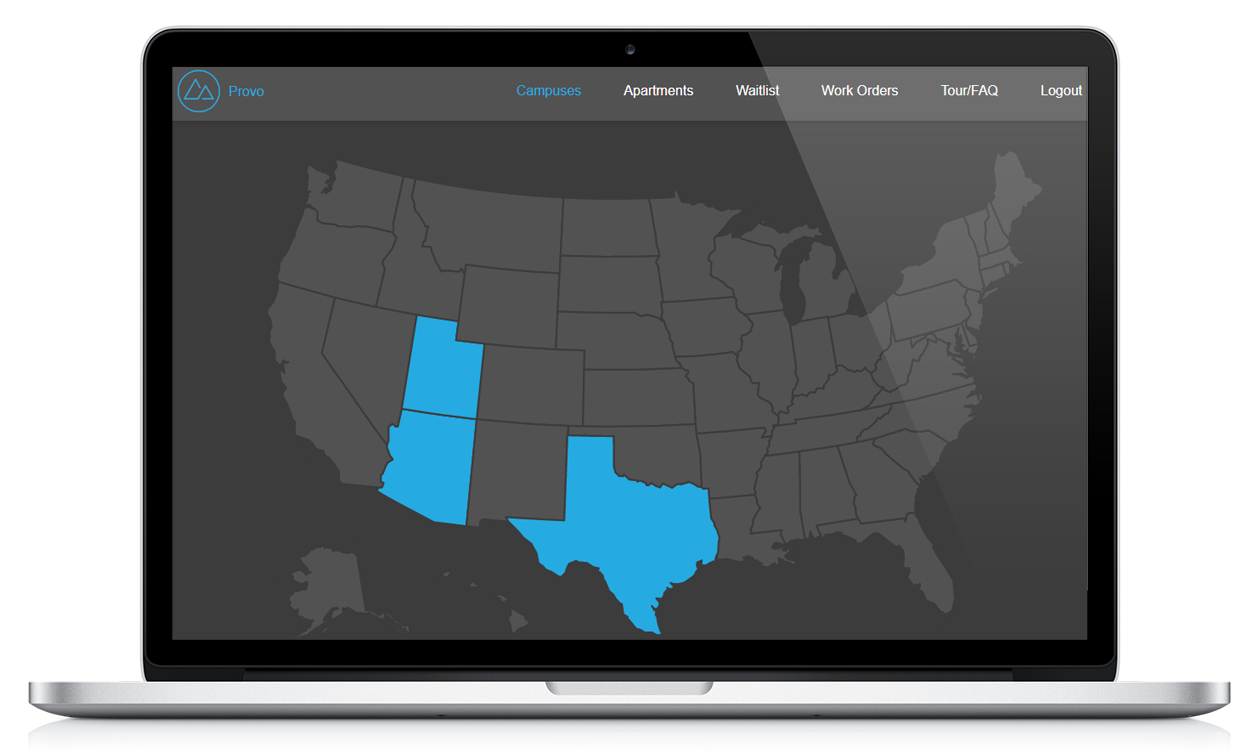
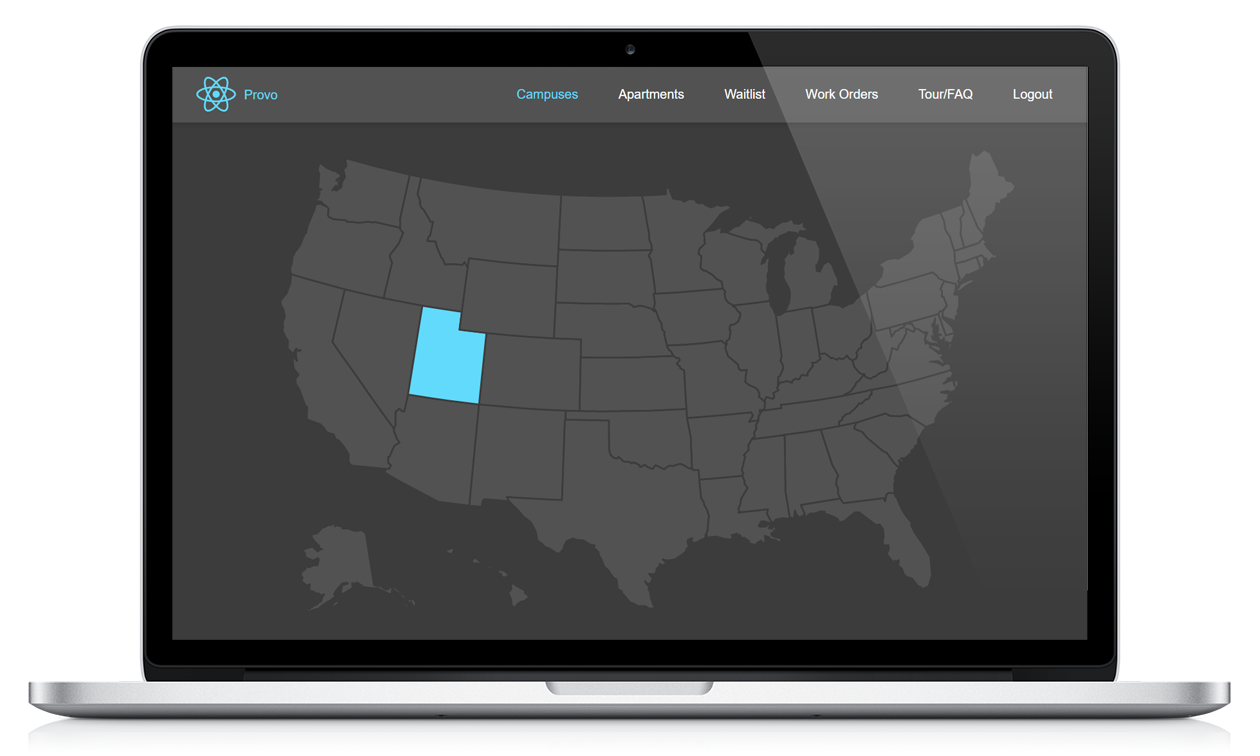
added housing portal

diff --git a/client/index.js b/client/index.js
@@ -1,7 +1,21 @@
-import React from 'react';
-import ReactDOM from 'react-dom';
+/* PACKAGES */
+import React from "react";
+import ReactDOM from "react-dom";
+import { Router, Route, hashHistory } from "react-router";
 import './index.scss';
-import App from './App';
 
-ReactDOM.render(<App />, document.getElementById('root'));
-registerServiceWorker();
+/* COMPONENTS */
+import App from './App';
+import HousingPortal from './components/HousingPortal/HousingPortal';
+import Desktop from './components/Desktop/Desktop';
+
+/* ROUTES */
+ReactDOM.render (
+  <Router history={hashHistory}>
+    <Route component={App}>
+      <Route path="/" component={Desktop} />
+      <Route path="/housing-portal" component={HousingPortal} />
+    </Route>
+  </Router>
+  , document.getElementById('root')
+);

diff --git a/server.js b/server.js
@@ -3,7 +3,6 @@ const express = require('express');
 const bodyParser = require('body-parser');
 const cors = require('cors');
 const session = require('express-session');
-const config = require('./config');
 const app = module.exports = express();
 
 /* APP */
@@ -12,7 +11,7 @@ app.use(bodyParser.json({limit: '50mb'}));
 app.use(cors());
 app.use(express.static(__dirname + '/build'));
 app.use(session({
-  secret: config.secret,
+  secret: '335h3hg3v542b53b56nn78',
   resave: true,
   saveUninitialized: true,
   cookie: {maxAge: 1000 * 60 * 60 * 24}

diff --git a/client/components/Desktop/DevMountain.js b/client/components/Desktop/DevMountain.js
@@ -14,6 +14,11 @@ class DevMountain extends Component {
       <div className="DevMountain">
         <div className="left-side">
           <img className="frame" src={frame} />
+          {document.body.clientWidth > 800 ? (
+            <span>
+              <a href="/#/housing-portal">View Housing Portal</a><span className="only"> (only for desktop)</span>
+            </span>
+          ) : null}
         </div>
         <div className="right-side">
           <h2>Hired by DevMountain...</h2>

diff --git a/client/components/Desktop/Technologies.js b/client/components/Desktop/Technologies.js
@@ -86,13 +86,11 @@ class Technologies extends Component {
             </div>
           );
         } else {
-          var toolTipText = tech.split("/static/media/")[1].split(".")[0];
           hexes.push(
             <div className="hex" key={j}>
               <div className="hex-top"></div>
               <div className="hex-mid"><img src={tech} /></div>
               <div className="hex-bot"></div>
-              <span>{toolTipText}</span>
             </div>
           );
         }

diff --git a/client/components/HousingPortal/HousingPortal.scss b/client/components/HousingPortal/HousingPortal.scss
@@ -1,0 +1,26 @@
+.HousingPortal {
+  width: 100%;
+  .iframe {
+    position: absolute;
+    top: 0;
+    left: 0;
+    width: 100%;
+    height: 100vh;
+    border: none;
+  }
+  .back-button {
+    text-decoration: none;
+    position: absolute;
+    width: 100px;
+    height: 40px;
+    background: rgb(97, 218, 251);
+    border-radius: 5px;
+    bottom: 20px;
+    left: 20px;
+    text-align: center;
+    p {
+      padding: 12px 0px;
+      color: white;
+    }
+  }
+}

diff --git a/client/components/HousingPortal/HousingPortal.js b/client/components/HousingPortal/HousingPortal.js
@@ -1,0 +1,15 @@
+import React, { Component } from 'react';
+import './HousingPortal.scss';
+
+class HousingPortal extends Component {
+  render() {
+    return (
+      <div className="HousingPortal">
+        <iframe className="iframe" src="https://storage.googleapis.com/calcium-potential-2559/index.html#/"></iframe>
+        <a href="/#/" className="back-button"><p>Go Back</p></a>
+      </div>
+    );
+  }
+}
+
+export default HousingPortal;

diff --git a/client/App.js b/client/App.js
@@ -1,11 +1,10 @@
 import React, { Component } from 'react';
-import Desktop from './components/Desktop/Desktop';
 
 class App extends Component {
   render() {
     return (
       <div className="App">
-        <Desktop />
+        {this.props.children}
       </div>
     );
   }

diff --git a/client/components/Desktop/Desktop.scss b/client/components/Desktop/Desktop.scss
@@ -109,6 +109,7 @@
 
 .Work .DevMountain .left-side {
   width: 70%;
+  text-align: center;
 }
 
 .Work .DevMountain .left-side img {
